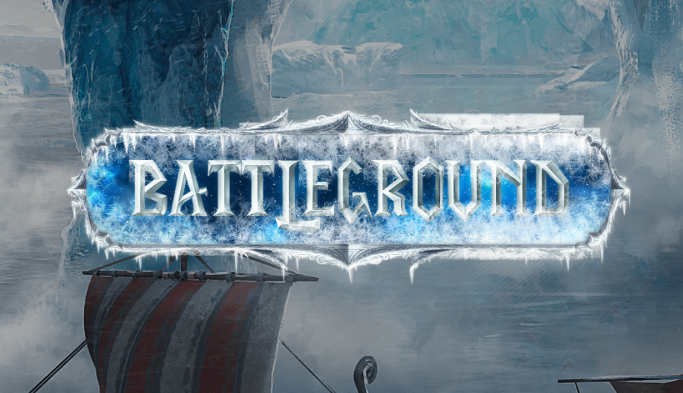
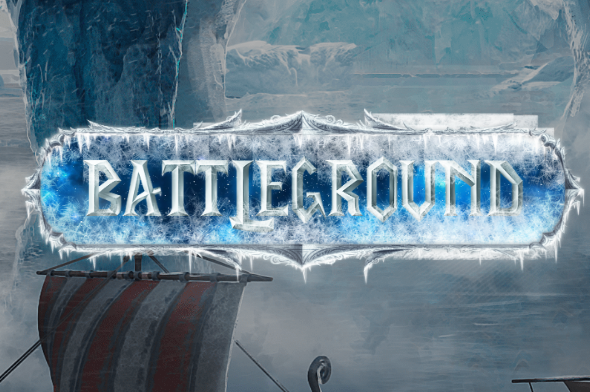
seo image change 3

diff --git a/src/pages/index.jsx b/src/pages/index.jsx
@@ -100,8 +100,8 @@ export default function Home() {
           images: [
             {
               url: canoniaclURL + LinkSeoImg.src,
-              width: 800,
-              height: 800,
+              width: 600,
+              height: 400,
               alt: title,
               type: "image/png",
             },
